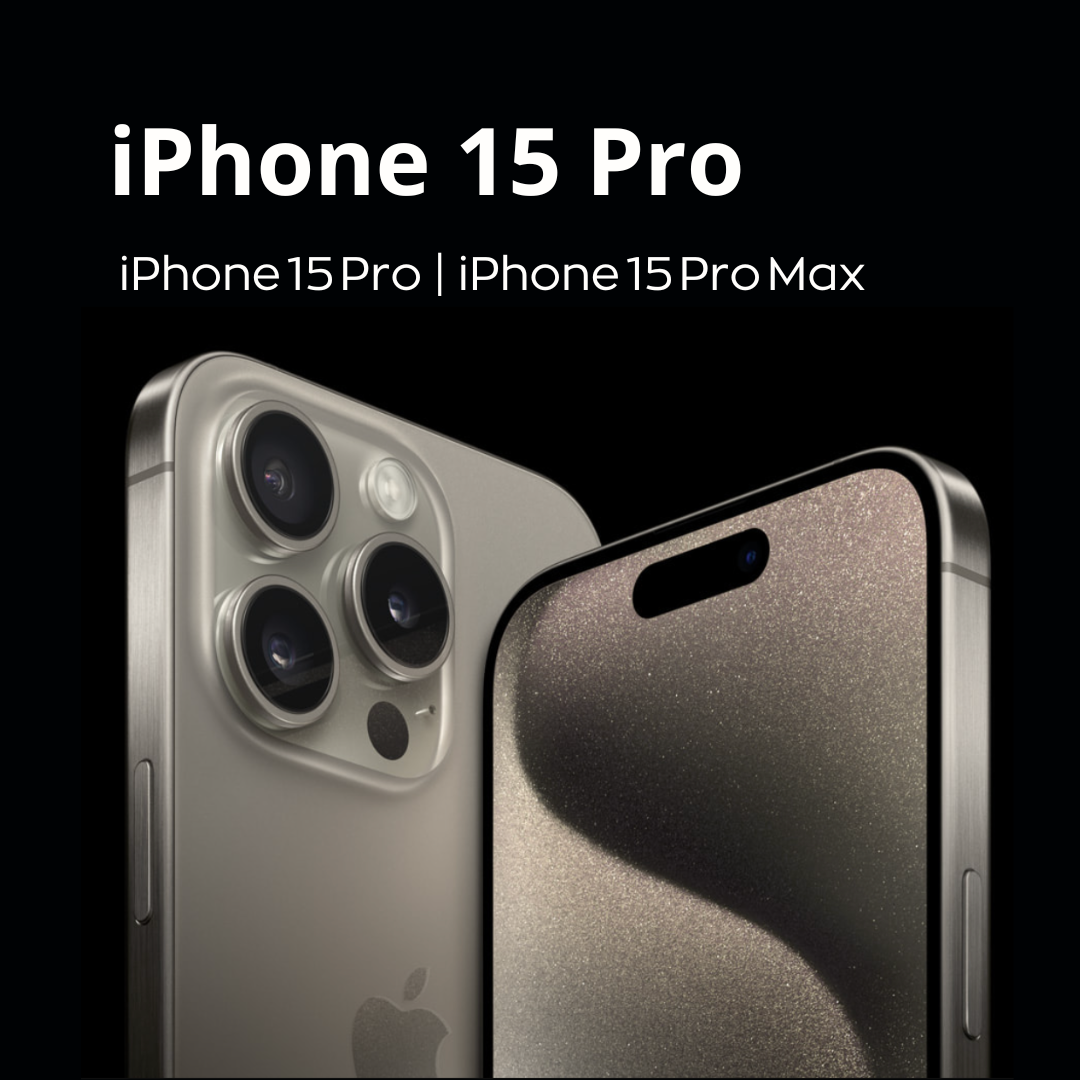
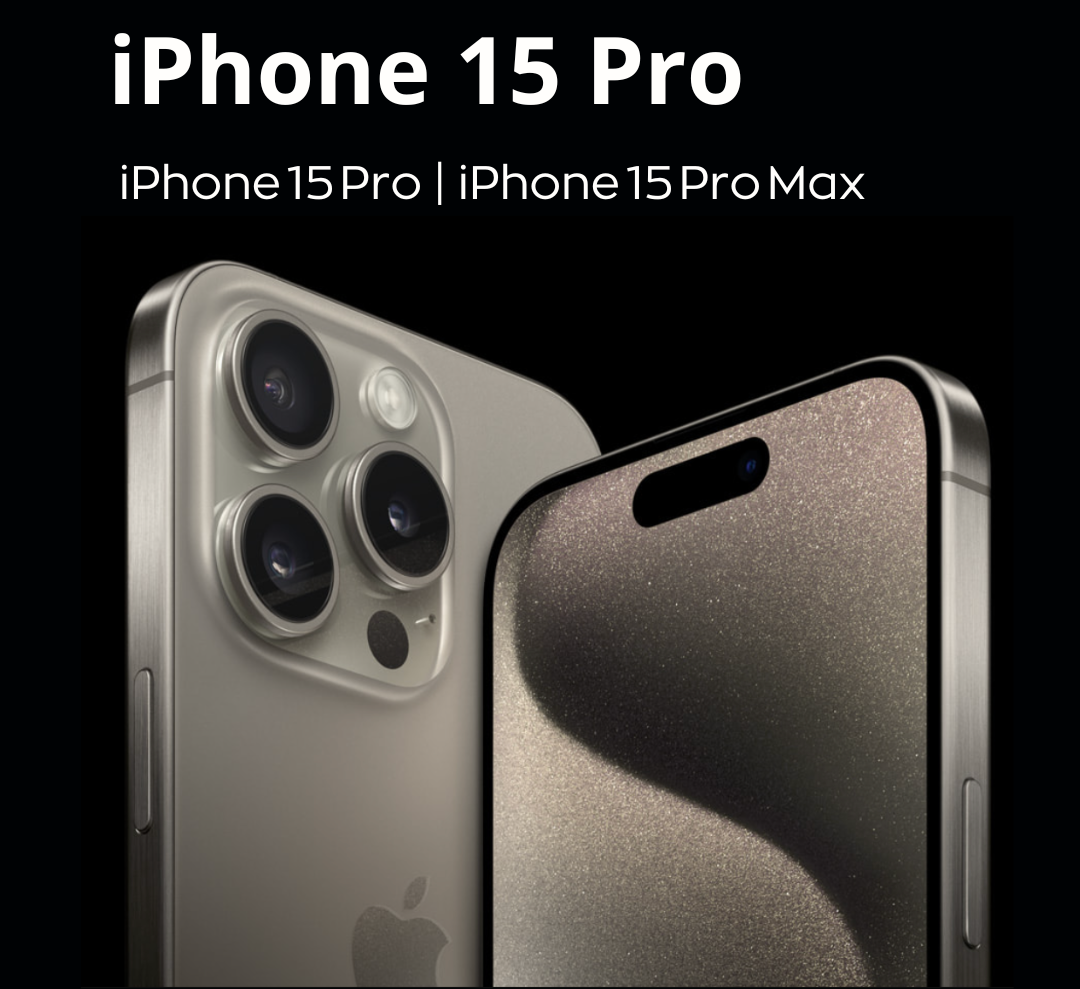
con fotos actualizadas

diff --git a/index.html b/index.html
@@ -6,12 +6,12 @@
         <meta name="viewport" content="width=device-width, initial-scale=1.0">
         <meta name="description" content="Tecnologia, Smartphones, Celulares, Telefonos inteligentes, Notebooks, Tablets, Tecno, Electro, Pantaltes,">
         <meta name="keywords" content="Tecnologia, Smartphones, Celulares, Telefonos inteligentes, Notebooks, Tablets, Tecno, Electro, Pantaltes">
-        <link rel="shortcut icon" href="./imagenes/gst.webp">
+        <link rel="shortcut icon" href="./imagenes/ins_logo.png">
         <!-- CSS only -->
         <link href="https://cdn.jsdelivr.net/npm/bootstrap@5.2.2/dist/css/bootstrap.min.css" rel="stylesheet" integrity="sha384-Zenh87qX5JnK2Jl0vWa8Ck2rdkQ2Bzep5IDxbcnCeuOxjzrPF/et3URy9Bv1WTRi" crossorigin="anonymous">
         <!-- Mi CSS -->
         <link rel="stylesheet" href="./css/style.css">
-        <title>GS Tecnologies - Home - Bienvenidos a nuestra tienda</title>
+        <title>iPhone Norte Shop - Home - Bienvenidos a nuestra tienda</title>
     </head>
     <body>
         <div>
@@ -19,9 +19,12 @@
                 <p id="arriba"></p>
                 <nav class="navbar navbar-expand-lg  fixed-top miNav"> <!-- Barra de Navegación -->
                     <div class="container-fluid">
-                        <a class="navbar-brand link-propio" href="index.html">GS Tecnologies</a>
+                        <a class="navbar-brand link-propio" href="index.html">iPhone Norte Shop
+                            <img src="./imagenes/ins_logo.png"  width="25" height="27"></a>
+                        </a>
                             <button class="navbar-toggler mi-busqueda" type="button" data-bs-toggle="collapse" data-bs-target="#navbarSupportedContent" aria-controls="navbarSupportedContent" aria-expanded="false" aria-label="Toggle navigation">
                                 <span class="navbar-dark navbar-toggler-icon "></span>
+                                
                             </button>
                         <div class="collapse navbar-collapse" id="navbarSupportedContent">
                             <ul class="navbar-nav me-auto mb-2 mb-lg-0">
@@ -29,7 +32,7 @@
                                     <a class="nav-link link-propio" aria-current="page" href="index.html">Home</a>
                                 </li>
                                 <li class="nav-item">
-                                    <a class="nav-link link-propio" href="./pages/Smartphones.html">Smartphones</a>
+                                    <a class="nav-link link-propio" href="./pages/Smartphones.html">Productos</a>
                                 </li>
                                 <li class="nav-item">
                                     <a class="nav-link link-propio" href="./pages/Nosotros.html">Nosotros</a>
@@ -47,16 +50,16 @@
             <main> 
                 <section> <!-- Introducción -->
                     <div class="d-flex justify-content-center align-items-center">
-                        <h1> ¡Bienvenido a nuestra Tienda! </h1>
+                        <h1> ¡Bienvenido a nuestra Web! </h1>
                     </div>       
                     <div class="d-flex justify-content-center ">
-                        <h2> Apple iPhone 14 Pro </h2>
+                        <h2> Tenemos el iPhone que buscás </h2>
                     </div>                   
-                    <div class="d-flex justify-content-center pt-2">
-                        <img class="img-fluid " src="./imagenes/iphone.webp" alt="foto nuevo iphone 14 pro">
+                    <div class="d-flex justify-content-center ">
+                        <img class="img-fluid " src="./imagenes/iPhone15pro.png"  width="600" height="600" alt="foto nuevo iphone 15 pro">
                     </div>      
                     <div class="d-flex justify-content-center">
-                        <h2> Adquirilo en nuestra tienda.</h2>   
+                        <h2> Adquirilo en nuestra tienda</h2>   
                     </div> 
                     <div class="d-flex justify-content-center align-items-center ">
                         <p class="texto p-3"> Llega a tus manos una forma mágica de utilizar el iPhone, combinada con prestaciones de seguridad pensadas para salvar vidas. Y una espectacular cámara de 48 Mpx que consigue un nivel de detalle descomunal. Todo bajo el control del chip más avanzado en un smartphone. ¿Lo ves? Es que no se puede ser más Pro. </p> 
@@ -66,31 +69,31 @@
                     <div class="container Productos"> 
                         <div class="row"> 
                                 <div class="col-lg-4 p-lg-5 col-md-6 p-md-4 col-sm-12 p-sm-6 mt-sm-3 d-flex justify-content-center align-items-center pt-3 producto">
-                                        <div class="card mt-4" style="width: 18rem;">
-                                            <img src="./imagenes/jbl.webp" height="220px" class="card-img-top" alt="Parlante jbl xtreme negro">
+                                        <div class="card mt-2" style="width: 18rem;">
+                                            <img src="./imagenes/iPhone14Pro.png" height="220px" class="card-img-top" >
                                             <div class="card-body">
-                                                <h5 class="card-title">Parlante JBL Xtreme</h5>
-                                                <p class="card-text Descripcion">Parlante Bluetooth JBL Xtreme con mucha duración de bateria.</p>
+                                                <h5 class="card-title">iPhone 14 Pro</h5>
+                                                <p class="card-text Descripcion"> Con Dinamic Island.</p>
                                                 <a href="#" class="btn btn-propio d-flex justify-content-center">Comprar</a>
                                             </div>
                                         </div>
                                 </div>
                                 <div class="col-lg-4 p-lg-5 col-md-6 p-md-4 col-sm-12 p-sm-6 mt-sm-3 d-flex justify-content-center align-items-center pt-3 producto">
-                                    <div class="card mt-4" style="width: 18rem;">
-                                        <img src="./imagenes/reloj.webp" height="220px" class="card-img-top" alt="Reloj inteligente marca samsung nuevo">
+                                    <div class="card mt-2" style="width: 18rem;">
+                                        <img src="./imagenes/iPhone13.png" height="220px" class="card-img-top" >
                                         <div class="card-body">
-                                            <h5 class="card-title ">Samsung Watch</h5>
-                                            <p class="card-text Descripcion">El mejor reloj de Samsung con mucha duración de bateria.</p>
+                                            <h5 class="card-title ">iPhone 13</h5>
+                                            <p class="card-text Descripcion"> Con Cámaras Dual</p>
                                             <a href="#" class="btn btn-propio d-flex justify-content-center">Comprar</a>
                                         </div>
                                     </div>
                                 </div>
                                 <div class="col-lg-4 p-lg-5 col-md-6 p-md-4 col-sm-12 p-sm-6 mt-sm-3 d-flex justify-content-center align-items-center pt-3 producto">
-                                    <div class="card mt-4" style="width: 18rem;">
+                                    <div class="card mt-2" style="width: 18rem;">
                                         <img src="./imagenes/macbook.webp" height="200px" class="card-img-top" alt="Macbook Pro M1 Touchbar">
                                         <div class="card-body">
                                             <h5 class="card-title">Macbook Pro M1</h5>
-                                            <p class="card-text Descripcion">Con pantalla Retina, una combinación de rapidez y ligereza.</p>
+                                            <p class="card-text Descripcion">Con pantalla Retina y Touchbar.</p>
                                             <a href="#" class="btn btn-propio d-flex justify-content-center">Comprar</a>
                                         </div>
                                     </div>
@@ -102,14 +105,11 @@
 
             <footer> 
                 <div class="d-flex justify-content-center align-items-center">
-                    <p class="texto p-3 m-5"> Para más información puede enviarnos un correo a nuestra dirección email o acercarse a nuestro local.</p>      
+                    <p class="texto p-3 md-2"> Para más información puede enviarnos un mensaje a nuestro instagram @iphonenorte.shop</p>      
                 </div> 
-                <div class="d-flex justify-content-center align-items-center p-2"> <!-- Mapa con ubicación -->
-                    <iframe src="https://www.google.com/maps/embed?pb=!1m18!1m12!1m3!1d4021.0778347010455!2d-60.67016344579578!3d-32.926867978227726!2m3!1f0!2f0!3f0!3m2!1i1024!2i768!4f13.1!3m3!1m2!1s0x95b654abc3ab1d5f%3A0x2f90ce97db2c5a6!2sAlto%20Rosario%20Shopping.!5e0!3m2!1ses!2sar!4v1664655555996!5m2!1ses!2sar" width="600" height="450" style="border:0;" allowfullscreen="" loading="lazy" referrerpolicy="no-referrer-when-downgrade"></iframe>
-                </div> 
-                <div class="text-center pt-3">
+                <div class="text-center pd-50">
                     <a href="#arriba">
-                    <img src="./imagenes/gst.webp"  class="rounded img-fluid " alt="logo gs tecnologies"></a>
+                    <img src="./imagenes/logoins.png"  class="rounded img-fluid "  width="230" height="160"></a>
                 </div>
             </footer>
 
